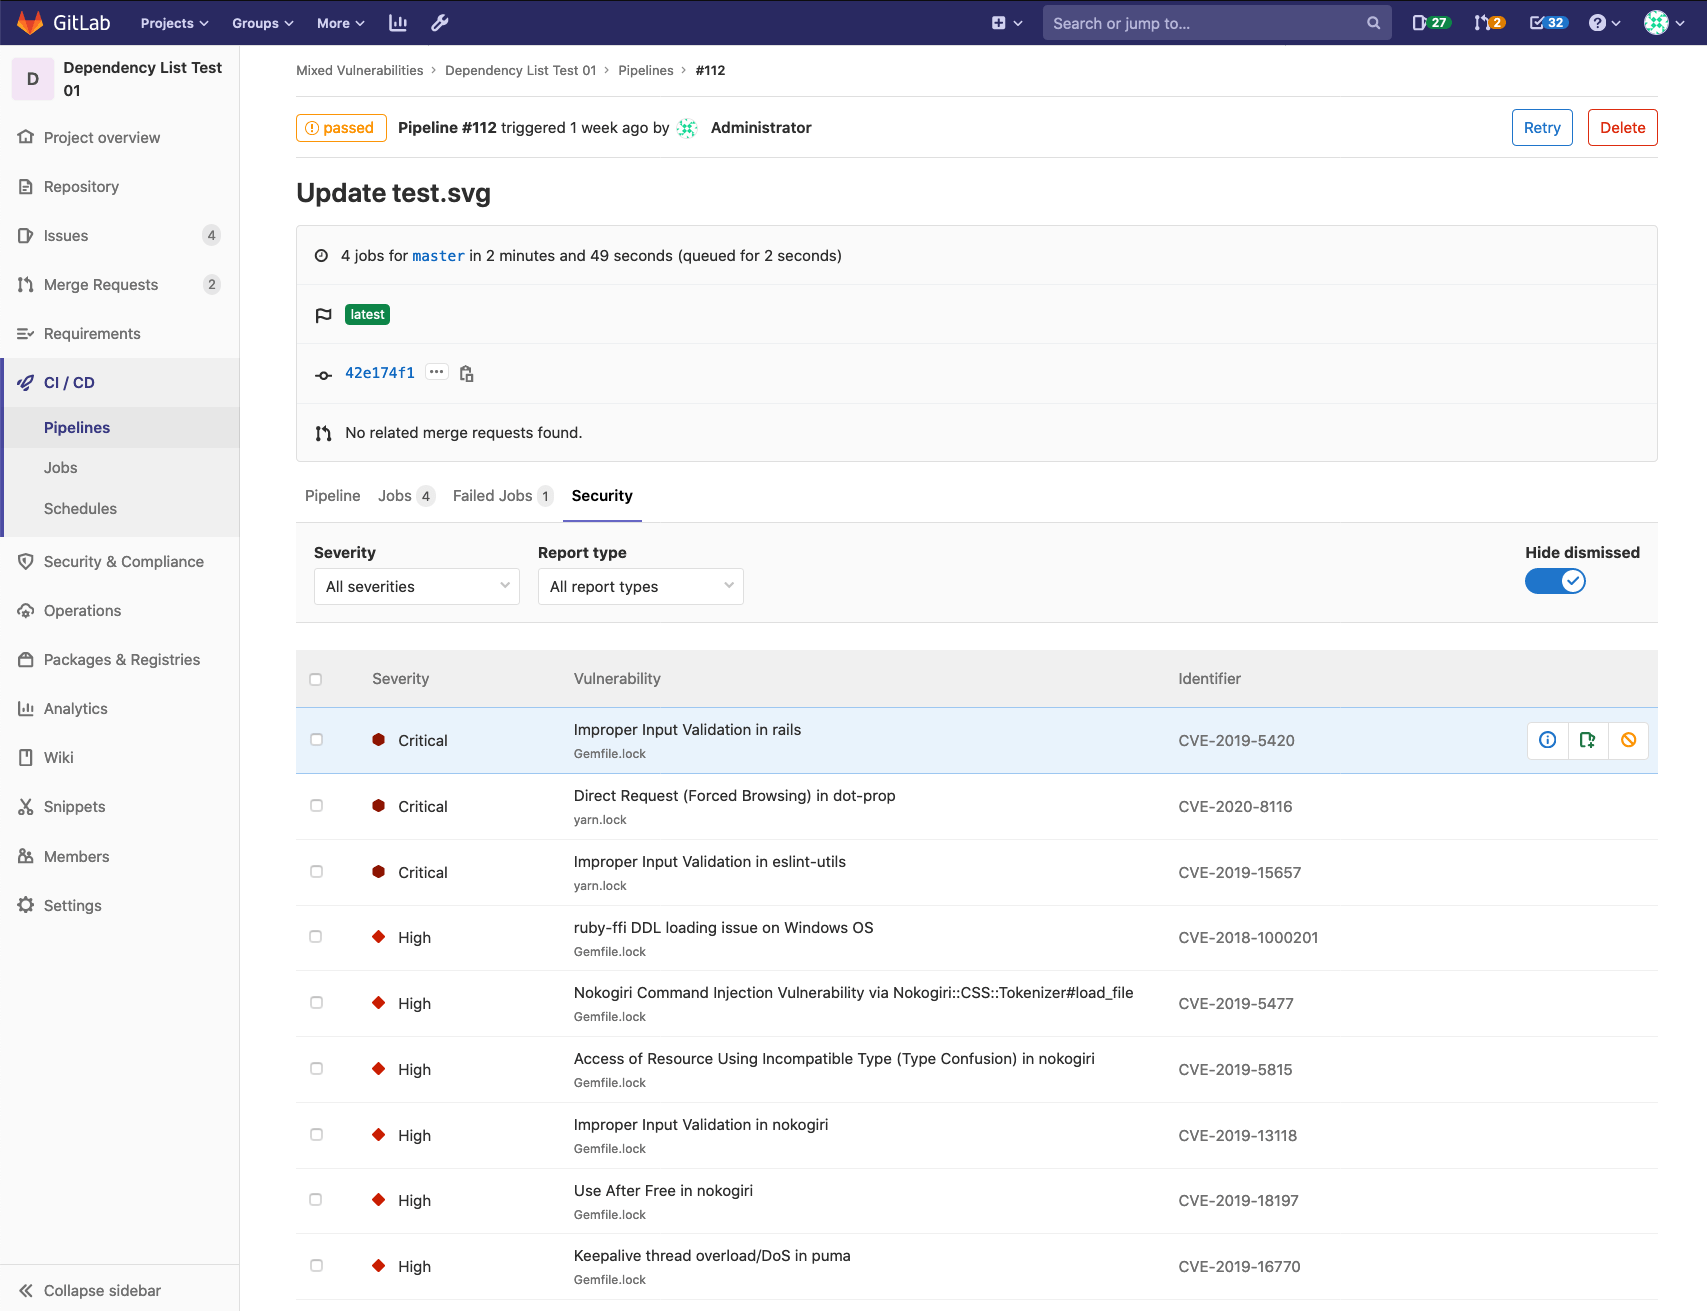
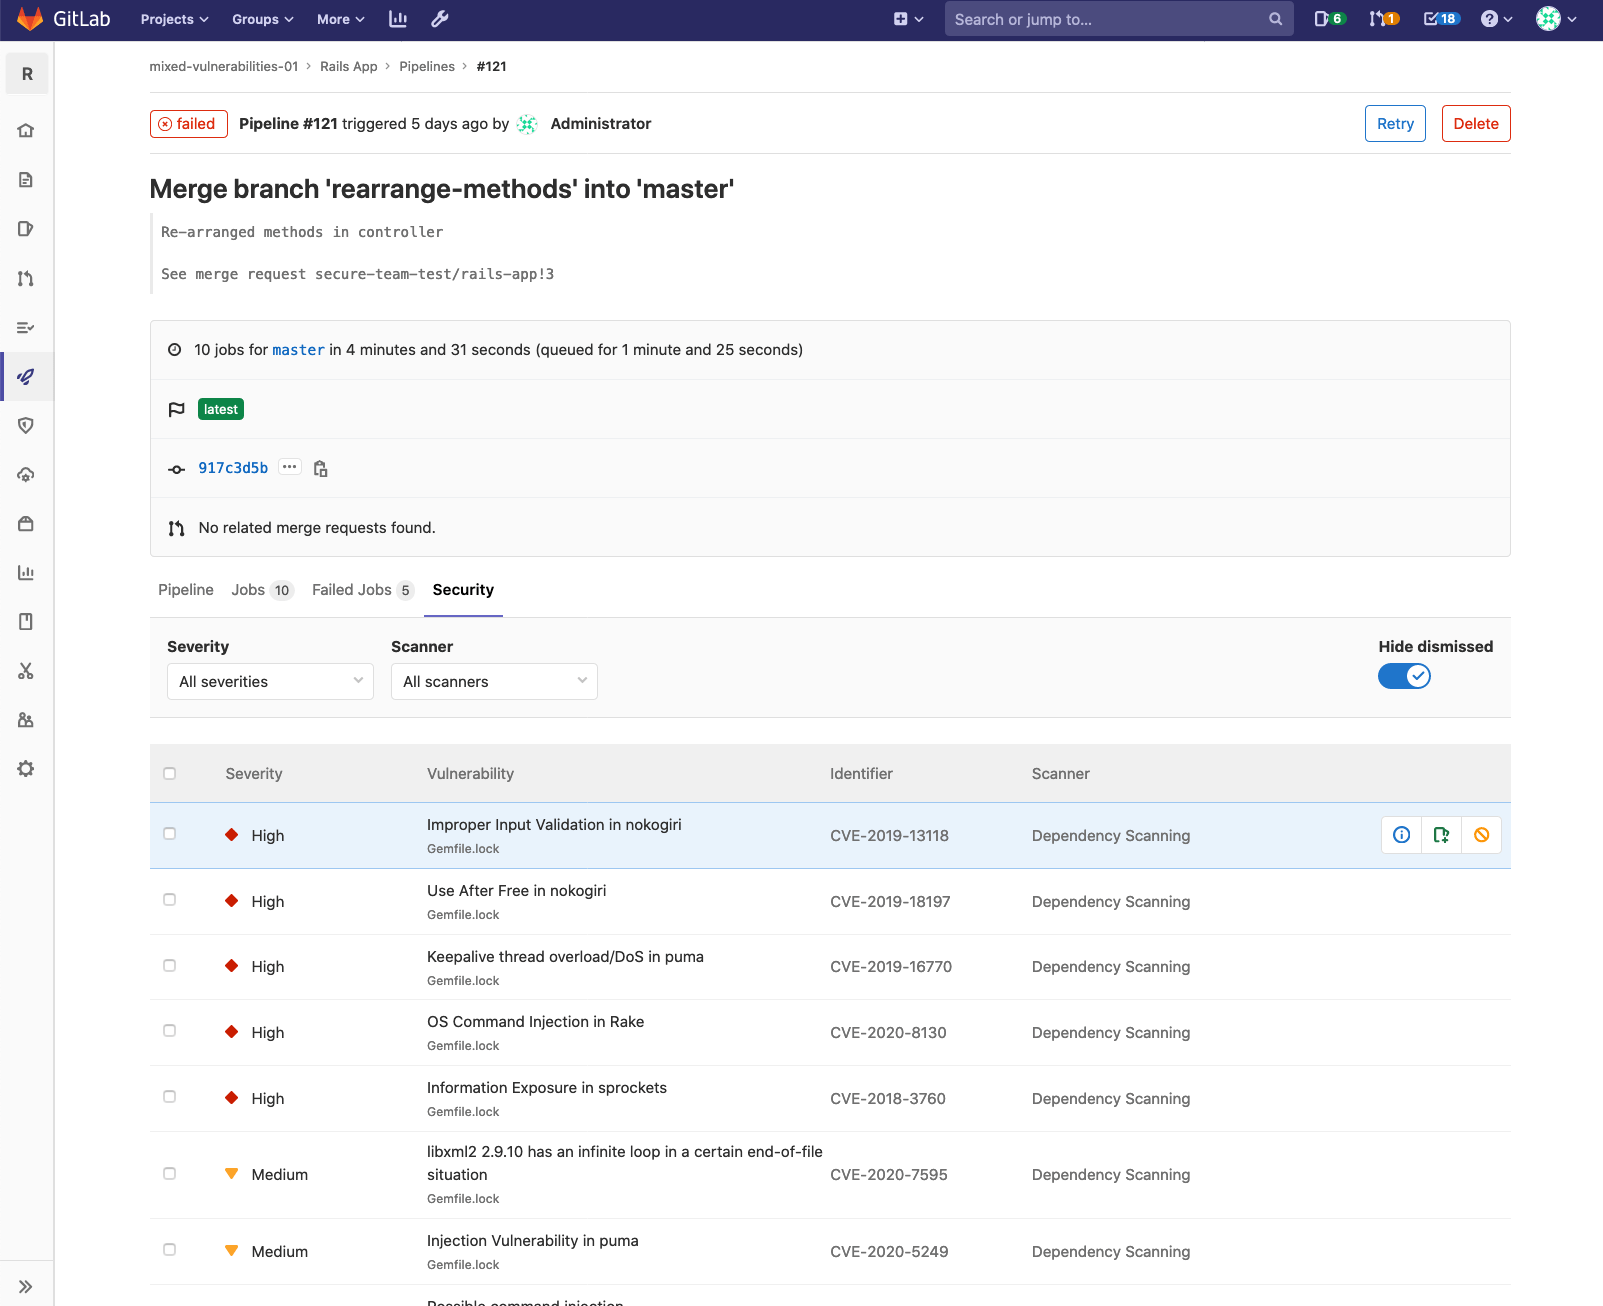
Update pipeline security tab filter label and docs
- Scanner Type -> Scanner, which is consistent with all the other
  security dashboards
- update docs

diff --git a/ee/app/assets/javascripts/vue_shared/security_reports/components/vulnerability_details.vue b/ee/app/assets/javascripts/vue_shared/security_reports/components/vulnerability_details.vue
@@ -210,10 +210,7 @@ export default {
       <severity-badge :severity="vulnerability.severity" class="d-inline" />
     </vulnerability-detail>
 
-    <vulnerability-detail
-      v-if="vulnerability.report_type"
-      :label="s__('Vulnerability|Scanner Type')"
-    >
+    <vulnerability-detail v-if="vulnerability.report_type" :label="s__('Vulnerability|Scanner')">
       <gl-friendly-wrap :text="scannerType" />
     </vulnerability-detail>
 

diff --git a/ee/app/assets/javascripts/security_dashboard/store/modules/filters/state.js b/ee/app/assets/javascripts/security_dashboard/store/modules/filters/state.js
@@ -14,7 +14,7 @@ export default () => ({
       selection: new Set([BASE_FILTERS.severity.id]),
     },
     {
-      name: s__('SecurityReports|Scanner type'),
+      name: s__('SecurityReports|Scanner'),
       id: 'report_type',
       options: [BASE_FILTERS.report_type, ...optionsObjectToArray(REPORT_TYPES)],
       hidden: false,

diff --git a/ee/app/assets/javascripts/security_dashboard/store/modules/filters/constants.js b/ee/app/assets/javascripts/security_dashboard/store/modules/filters/constants.js
@@ -8,7 +8,7 @@ export const BASE_FILTERS = {
     id: ALL,
   },
   report_type: {
-    name: s__('ciReport|All scanner types'),
+    name: s__('ciReport|All scanners'),
     id: ALL,
   },
   project_id: {
